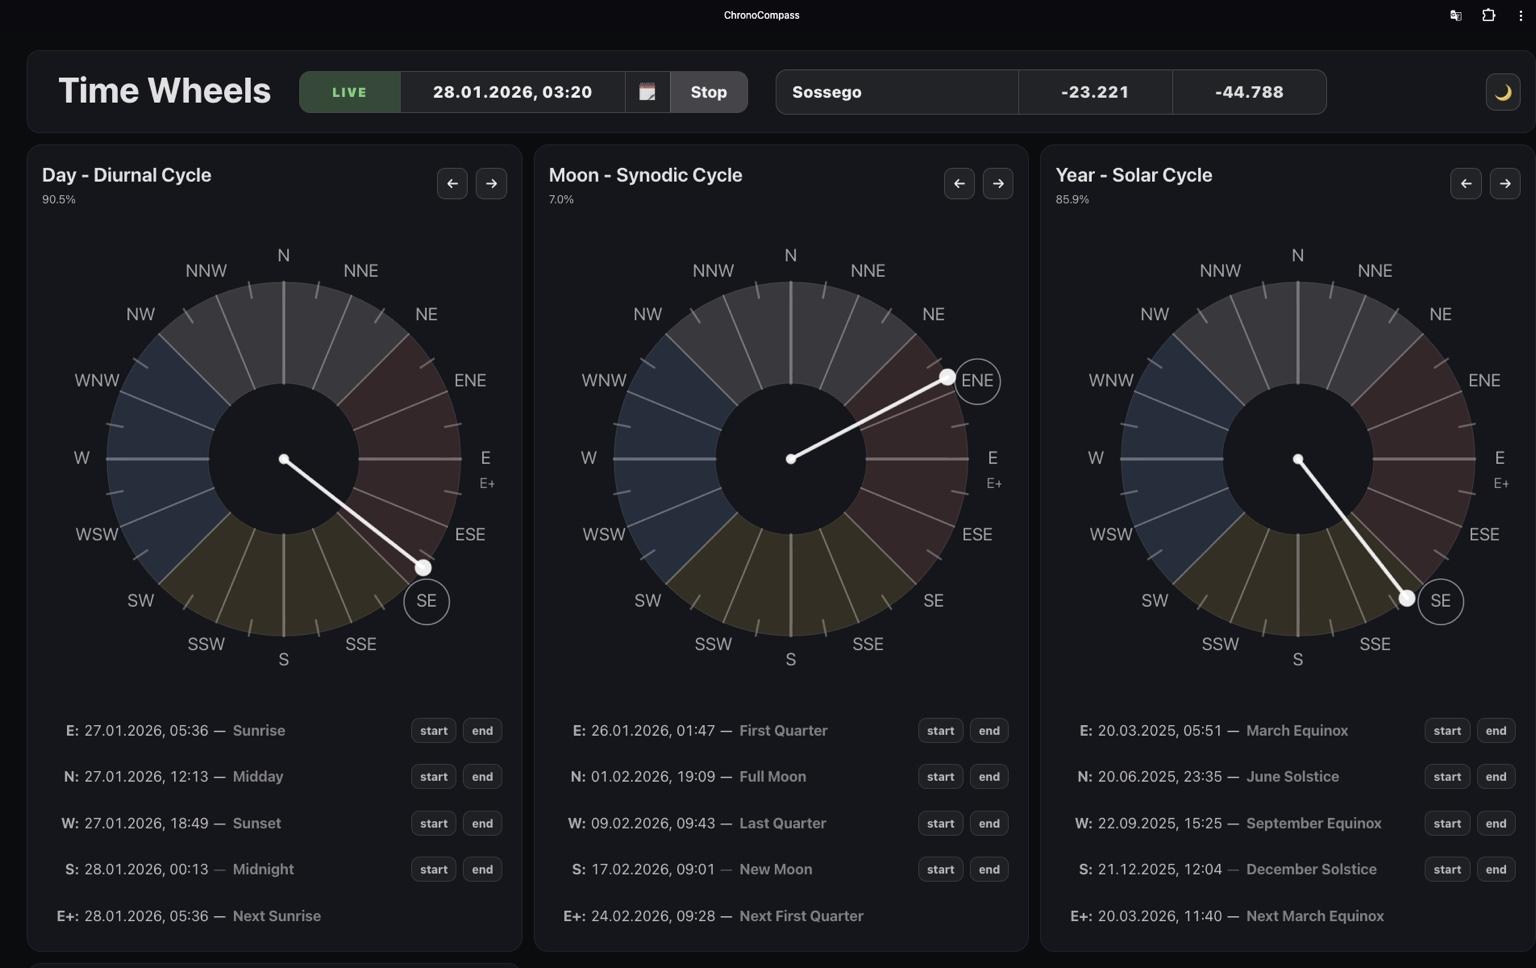
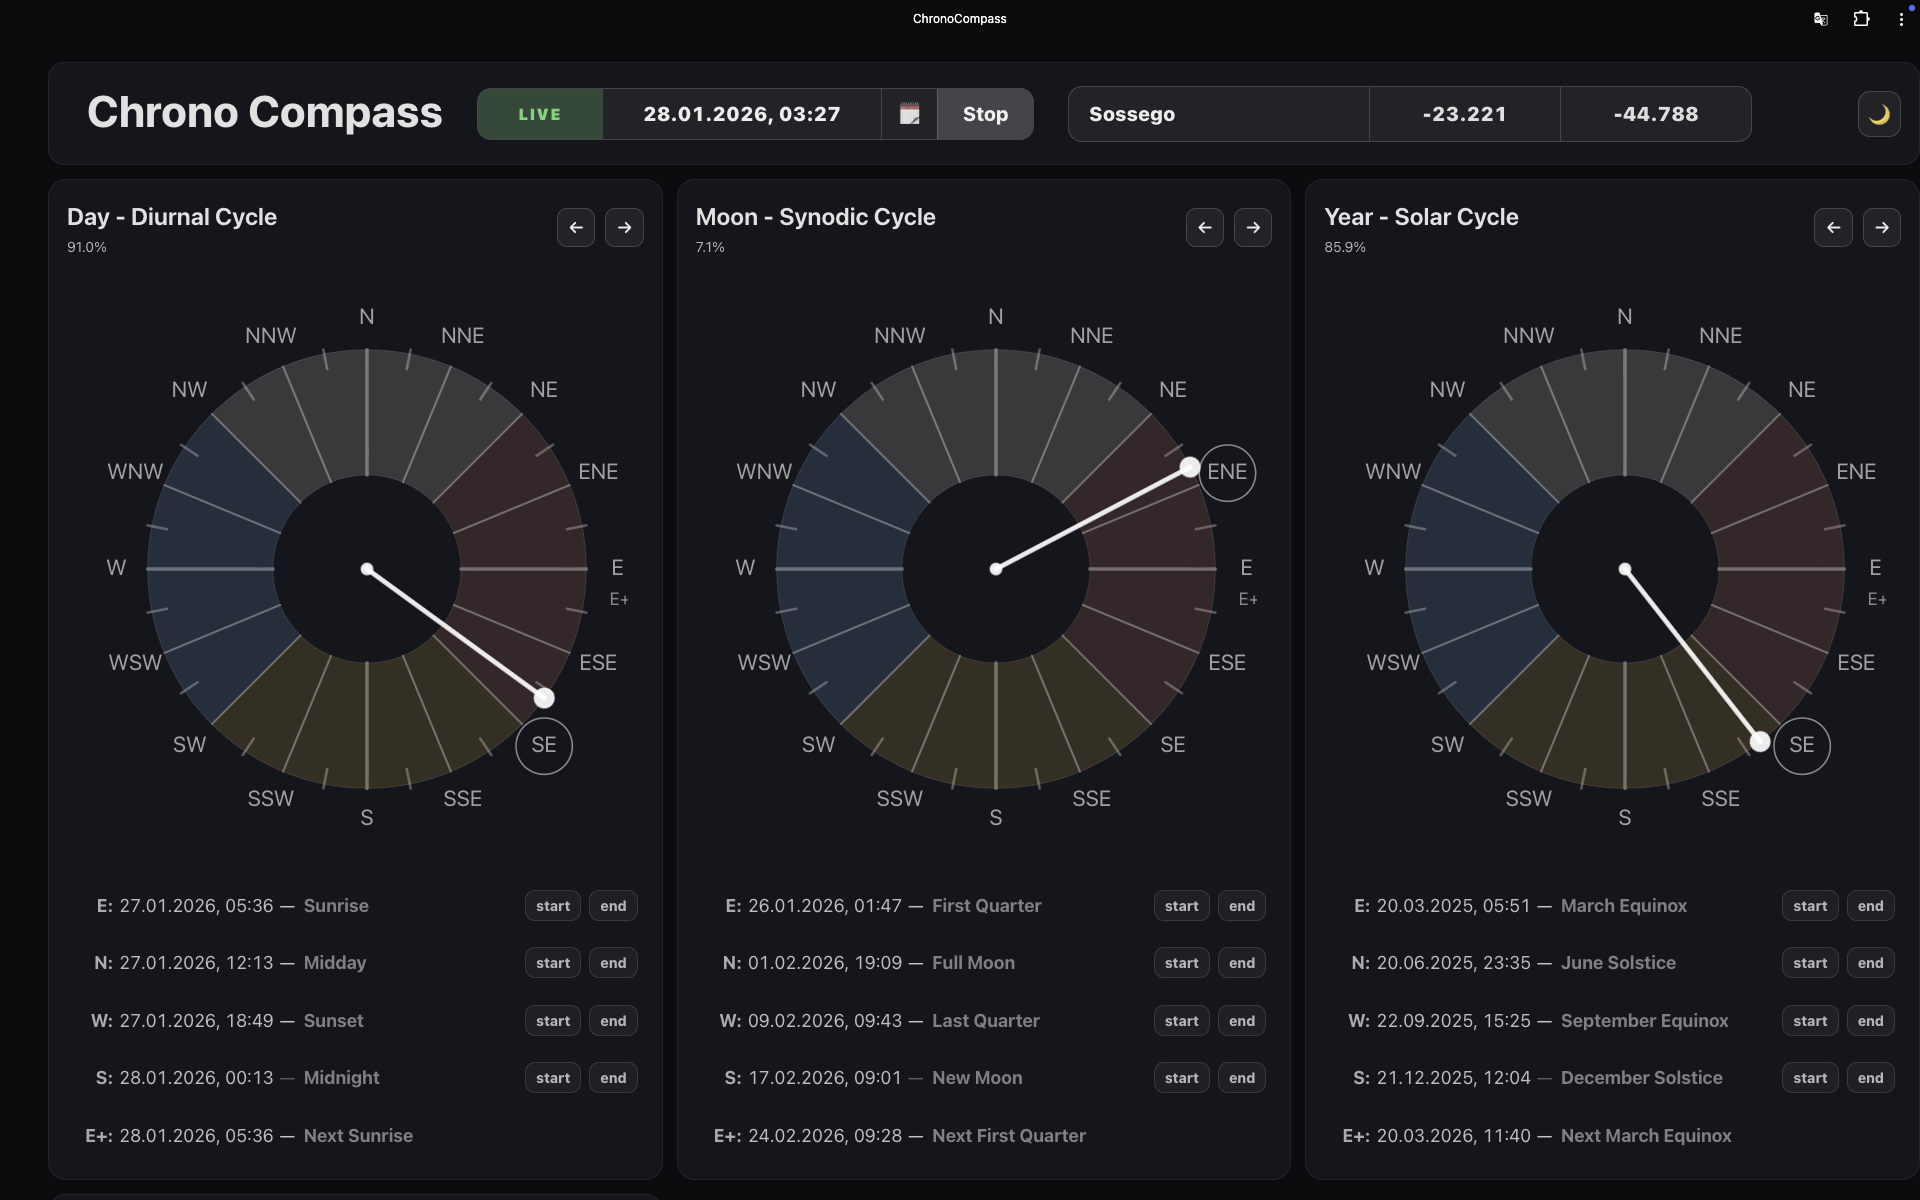
updated screenshoot

diff --git a/src/components/Header.svelte b/src/components/Header.svelte
@@ -5,7 +5,7 @@
 </script>
 
 <header class="bar">
-    <div class="title">Time Wheels</div>
+    <div class="title">Chrono Compass</div>
     <div class="slot time">
         <TimePicker />
     </div>
